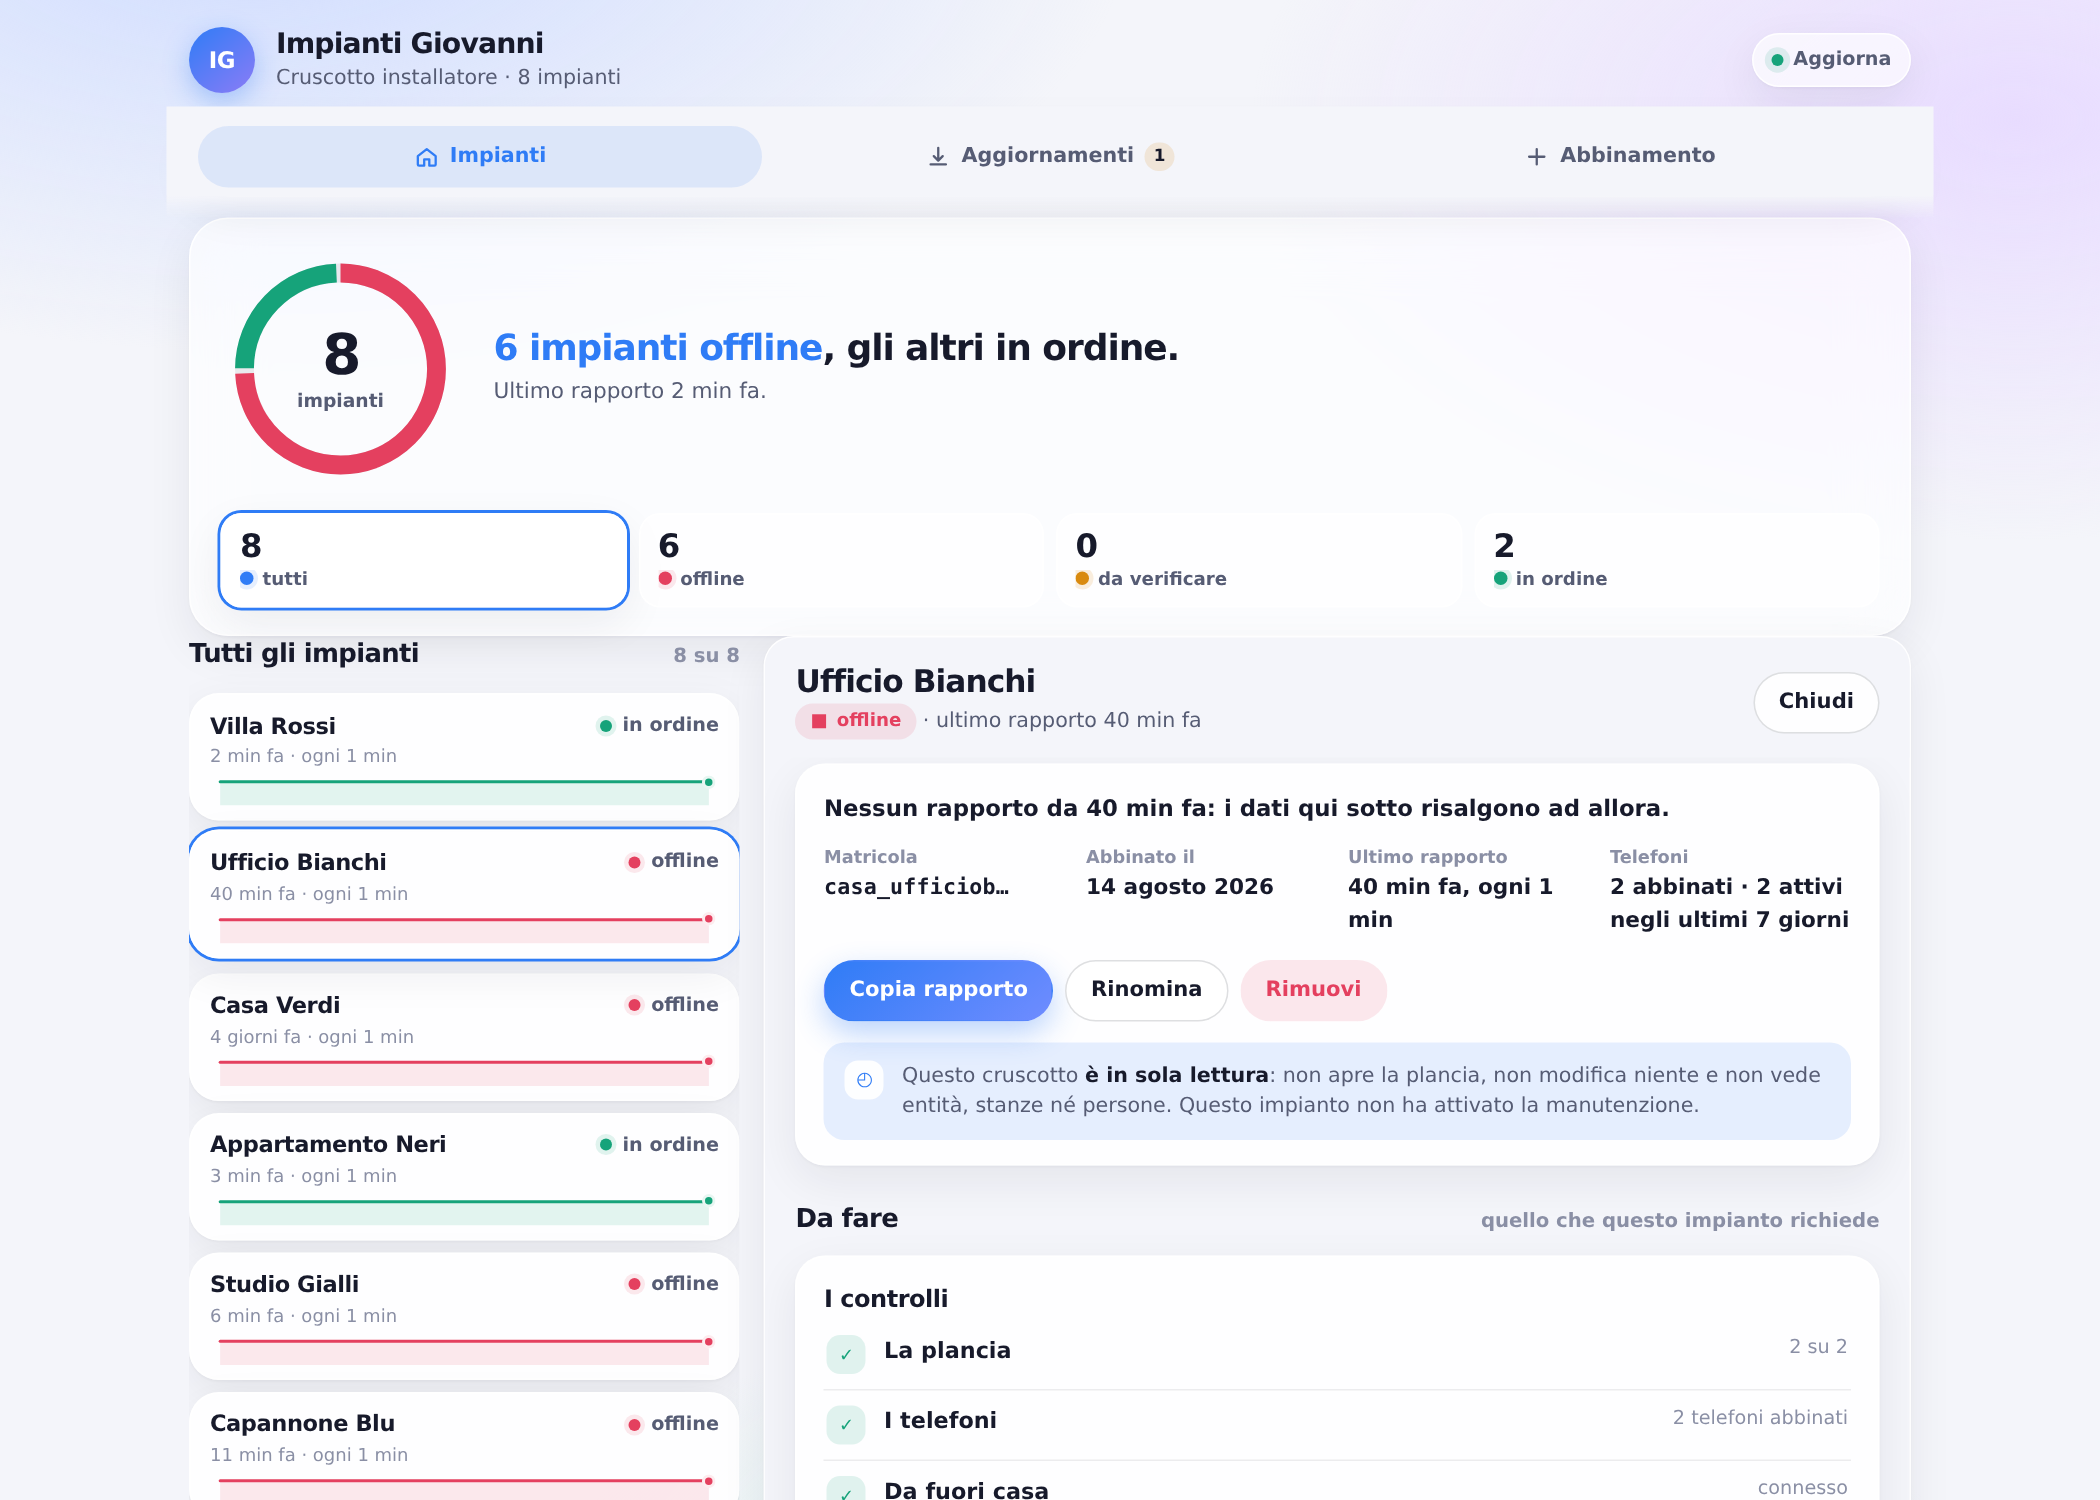
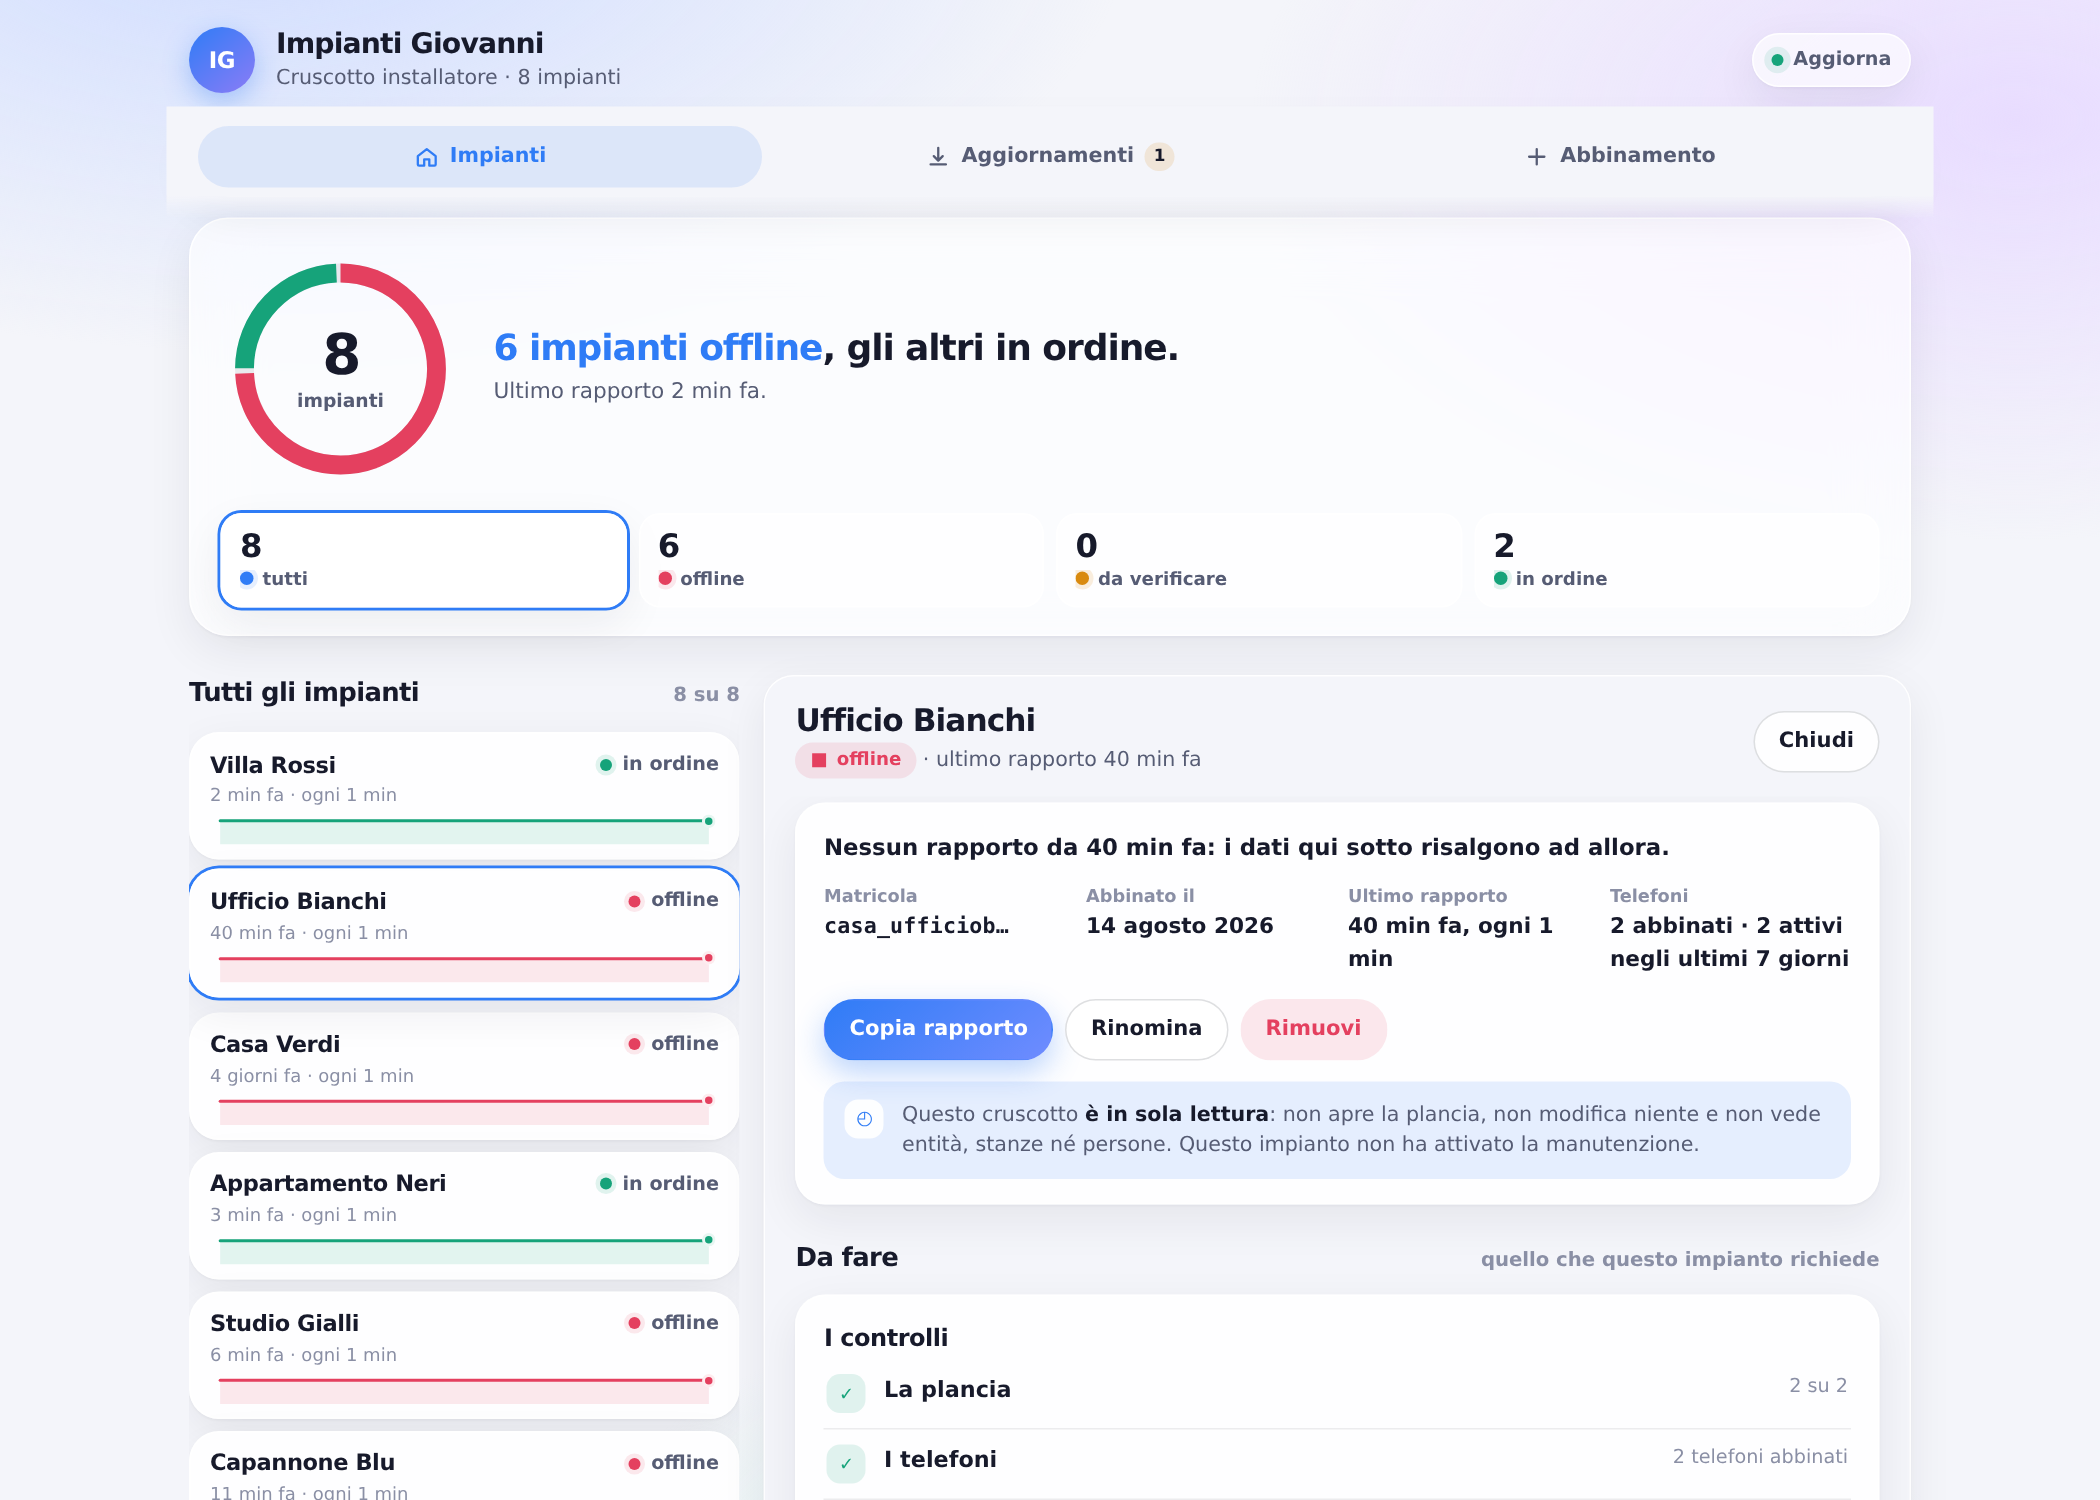
«Tutti gli impianti» era attaccata alla carta sopra
E l'ho fatto io, correggendo il difetto di prima. Per far cominciare le
due colonne alla stessa altezza avevo tolto lo stacco al titolo della
raccolta — ed era proprio quello stacco a fare il vuoto sotto il riquadro
in cima. Misurato: fondo della carta a 424, titolo a 424. Zero, da tutte
e due le parti.

Adesso il vuoto è della riga, non del titolo, e vale ventisei: non è un
numero nuovo, è quello che la pagina usa già fra una carta e il titolo
che viene dopo (`.voce`). Le due colonne lo prendono dallo stesso posto,
`--stacco-affianco`, perché se lo prendessero da due numeri diversi il
giorno che se ne cambia uno ripartirebbero a due altezze.

Un `row-gap` non si poteva usare: la riga delle colonne è la nona — è
numerata apposta, perché fra il riquadro in cima e l'elenco ci possono
stare altre cose — e il vuoto si sarebbe contato otto volte.

Il guardiano di ieri se n'è accorto per primo, e aveva ragione lui: il
margine adesso ha tre valori invece di due, e la prova leggeva solo la
forma a due. Insegnata a leggere tutte e quattro le forme della
scorciatoia, contando le parentesi invece di cercarle con un modello —
dentro `calc(var(--stacco-affianco) - 4px)` ce n'è un paio dentro
l'altro, e fermarsi alla prima chiusa spezzava il valore in mezzo.

Claude-Session: https://claude.ai/code/session_01GGsjFKASY1U5KG4TDkPD3s

diff --git a/quadro/test/la-scheda-si-apre-accanto.test.js b/quadro/test/la-scheda-si-apre-accanto.test.js
@@ -101,12 +101,38 @@ for (const [chi, pagina] of Object.entries(PAGINE)) {
      * sola cosa che se ne accorge se qualcuno lo rimette di lato. */
     const foglio = laffiancata(pagina);
     const colonna = regola(foglio, "#dove > .colonna-elenco");
+    /* La parte di destra-sinistra di una scorciatoia, comunque sia scritta:
+     * «tutto», «sopra-sotto lati», «sopra lati sotto», «sopra destra sotto
+     * sinistra».
+     *
+     * Le parentesi si contano invece di cercarle con un modello: dentro un
+     * `calc(var(--stacco-affianco) - 4px)` ce n'e' un paio dentro l'altro, e
+     * un modello che si ferma alla prima chiusa spezzava il valore in mezzo —
+     * la prova diceva che il margine di lato era «-». */
+    const diLato = (scritto) => {
+      const pezzi = [];
+      let pezzo = "";
+      let dentro = 0;
+      for (const c of scritto.trim()) {
+        if (c === "(") dentro += 1;
+        else if (c === ")") dentro -= 1;
+        if (/\s/.test(c) && dentro === 0) {
+          if (pezzo) pezzi.push(pezzo);
+          pezzo = "";
+          continue;
+        }
+        pezzo += c;
+      }
+      if (pezzo) pezzi.push(pezzo);
+      if (pezzi.length === 1) return [pezzi[0], pezzi[0]];
+      if (pezzi.length === 4) return [pezzi[1], pezzi[3]];
+      return [pezzi[1], pezzi[1]];
+    };
     for (const quale of ["padding", "margin"]) {
       const scritto = new RegExp(`\\n\\s*${quale}: ([^;]+);`).exec(colonna)?.[1];
       assert.ok(scritto, `alla colonna manca «${quale}»`);
-      const pezzi = scritto.trim().split(/\s+/);
-      assert.equal(pezzi.length, 2, `«${quale}: ${scritto}» non e' «sopra-sotto destra-sinistra»`);
-      assert.equal(pezzi[1], "0", `«${quale}» sposta la colonna di lato: ${scritto}`);
+      for (const lato of diLato(scritto))
+        assert.equal(lato, "0", `«${quale}» sposta la colonna di lato: ${scritto}`);
     }
 
     /* E il titolo in cima non porta il suo stacco: le due colonne devono
@@ -146,6 +172,41 @@ for (const [chi, pagina] of Object.entries(PAGINE)) {
 
     /* E il titolo di un capitolo non si riprende niente di lato. */
     assert.match(regola(pagina, "      .capitolo"), /margin: \d+px 0 \d+px;/);
+  });
+
+  test(`${chi}: fra il riquadro in cima e la riga c'e' un vuoto, ed e' uno`, () => {
+    /* Il difetto per nome, e l'ho fatto io correggendo il precedente: per
+     * far cominciare le due colonne alla stessa altezza avevo tolto lo
+     * stacco al titolo della raccolta — ed era proprio quello stacco a fare
+     * il vuoto sotto il riquadro in cima. «Tutti gli impianti» si e'
+     * ritrovata attaccata alla carta sopra: fondo della carta a 424, titolo
+     * a 424. Zero, misurato.
+     *
+     * Adesso il vuoto e' della riga, non del titolo, ed e' scritto una volta
+     * sola: se lo prendessero da due numeri diversi, il giorno che se ne
+     * cambia uno le due colonne ripartirebbero a due altezze. */
+    const foglio = laffiancata(pagina);
+    assert.match(
+      regola(foglio, "        #dove"),
+      /--stacco-affianco: \d+px;/,
+      "lo stacco della riga non c'e' piu'",
+    );
+
+    const colonna = regola(foglio, "#dove > .colonna-elenco");
+    const respiro = /\n\s*padding: (\d+)px 0;/.exec(colonna)?.[1];
+    assert.ok(respiro, "alla colonna manca il respiro sopra e sotto");
+    /* La colonna parte dallo stacco meno il suo respiro, cosi' il contenuto
+     * comincia dove comincia la scheda. */
+    assert.match(
+      colonna,
+      new RegExp(`margin: calc\\(var\\(--stacco-affianco\\) - ${respiro}px\\) 0 -${respiro}px;`),
+      "la colonna non parte dallo stacco della riga",
+    );
+    assert.match(
+      regola(foglio, "#dove > .scheda-vuota,\n        #dove > .foglio"),
+      /margin-top: var\(--stacco-affianco\);/,
+      "la scheda non parte dallo stacco della riga",
+    );
   });
 
   test(`${chi}: accanto non c'e' piu' il velo`, () => {

diff --git a/quadro/gestore/index.html b/quadro/gestore/index.html
@@ -2601,6 +2601,16 @@
           grid-template-columns: minmax(300px, 32%) minmax(0, 1fr);
           column-gap: 16px;
           align-items: start;
+          /* Lo stacco fra il riquadro in cima e la riga delle due colonne.
+             E' quello che la pagina usa gia' fra una carta e il titolo che
+             viene dopo — `.voce`, ventisei — e non un numero nuovo: prima
+             quel vuoto lo faceva proprio lo stacco del titolo, e togliendolo
+             per allineare le due colonne l'ho tolto anche alla pagina. La
+             scritta «Tutti gli impianti» finiva attaccata alla carta sopra:
+             fondo della carta a 424, titolo a 424. Zero.
+             Un `row-gap` qui non si puo' usare: la riga e' la nona, e il
+             vuoto si conterebbe otto volte. */
+          --stacco-affianco: 26px;
         }
 
         #dove > * {
@@ -2651,8 +2661,11 @@
              sotto, ed e' ripreso dal margine: di lato spostava la colonna
              cinque pixel fuori da tutto il resto — il riquadro in cima
              cominciava a 126, l'elenco a 121, e si vedeva. */
+          /* Il respiro di quattro sopra e sotto si toglie dal margine, cosi'
+             il contenuto della colonna comincia esattamente dove comincia la
+             scheda accanto. */
           padding: 4px 0;
-          margin: -4px 0;
+          margin: calc(var(--stacco-affianco) - 4px) 0 -4px;
         }
 
         /* Le due colonne cominciano alla stessa altezza.
@@ -2684,6 +2697,7 @@
         #dove > .foglio {
           grid-column: 2;
           grid-row: 9;
+          margin-top: var(--stacco-affianco);
         }
 
         /* Il velo copriva quello che adesso si vuole continuare a vedere. */

diff --git a/quadro/console/index.html b/quadro/console/index.html
@@ -1408,6 +1408,16 @@
           grid-template-columns: minmax(300px, 32%) minmax(0, 1fr);
           column-gap: 16px;
           align-items: start;
+          /* Lo stacco fra il riquadro in cima e la riga delle due colonne.
+             E' quello che la pagina usa gia' fra una carta e il titolo che
+             viene dopo — `.voce`, ventisei — e non un numero nuovo: prima
+             quel vuoto lo faceva proprio lo stacco del titolo, e togliendolo
+             per allineare le due colonne l'ho tolto anche alla pagina. La
+             scritta «Tutti gli impianti» finiva attaccata alla carta sopra:
+             fondo della carta a 424, titolo a 424. Zero.
+             Un `row-gap` qui non si puo' usare: la riga e' la nona, e il
+             vuoto si conterebbe otto volte. */
+          --stacco-affianco: 26px;
         }
 
         #dove > * {
@@ -1458,8 +1468,11 @@
              sotto, ed e' ripreso dal margine: di lato spostava la colonna
              cinque pixel fuori da tutto il resto — il riquadro in cima
              cominciava a 126, l'elenco a 121, e si vedeva. */
+          /* Il respiro di quattro sopra e sotto si toglie dal margine, cosi'
+             il contenuto della colonna comincia esattamente dove comincia la
+             scheda accanto. */
           padding: 4px 0;
-          margin: -4px 0;
+          margin: calc(var(--stacco-affianco) - 4px) 0 -4px;
         }
 
         /* Le due colonne cominciano alla stessa altezza.
@@ -1486,6 +1499,7 @@
         #dove > .foglio {
           grid-column: 2;
           grid-row: 9;
+          margin-top: var(--stacco-affianco);
         }
 
         /* Due mattonelle affiancate in trecento pixel non ci stanno: qui
